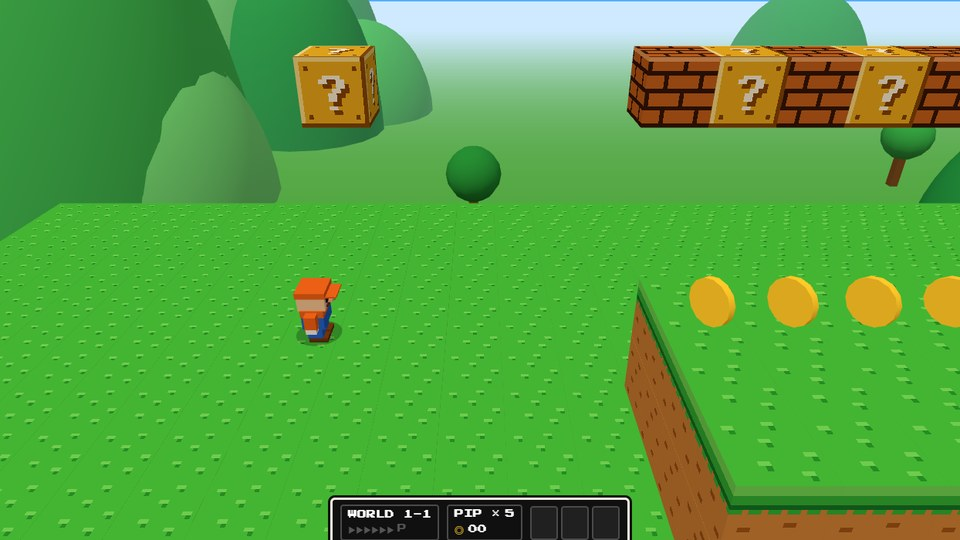
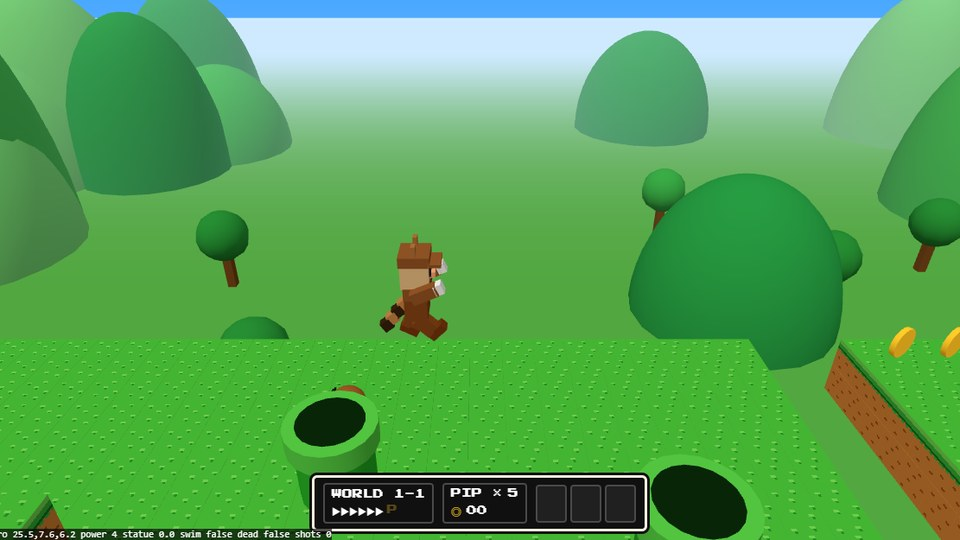
Leaf Leap 3D: tanooki and frog suits, water, airship

diff --git a/games.js b/games.js
@@ -20,9 +20,9 @@ window.GAMES = [
     players: '1',
     added: '2026-10-19',
     title:    { zh: '葉葉跳跳 3D', en: 'Leaf Leap 3D' },
-    tagline:  { zh: '在 3D 方塊世界裡奔跑跳躍：頂方塊、踩敵人、屁股蹬地，吃下神奇葉子在天上飛！', en: 'Run and jump through a blocky 3D world: bop blocks, stomp baddies, ground-pound, and fly with the Super Leaf!' },
-    about:    { zh: '致敬超級瑪利歐兄弟 3 與 3D Land 的 3D 平台遊戲。在世界地圖上沿著小路前進：六個關卡、蘑菇小屋、石頭堡壘和龜王城。關卡是 3D 方塊搭成的草原、梯田、天空浮島、水管森林、地底洞窟和岩漿大廳，可以前後左右自由跑跳，鏡頭可以轉動。蘑菇讓你變大、火焰花朝面對的方向丟彈跳火球、神奇葉子讓你長出尾巴：轉圈甩尾巴打敵人、在空中連按跳慢慢飄落，跑步集滿 P 計量表還能起飛；在空中按蹬地鍵可以屁股蹬地壓碎磚塊。踩扁蘑菇怪、把烏龜踩成龜殼往任何方向踢出去，最後踩三下打倒兩位首領。穿過終點線得到卡片，集三張換額外生命。簡單模式：五條命、每關都有中間點、沒有時間限制，關卡兩側有安全牆不會掉下去。',
-                en: 'A 3D platformer in tribute to Super Mario Bros. 3 and 3D Land. Walk the path on the world map: six levels, a Mushroom House, a Stone Fortress and the Turtle King\'s castle. The courses are built of 3D blocks (meadows, terraces, floating sky islands, a pipe grove, a cave and lava halls), and you can run in every direction while the camera turns. The Mushroom makes you big, the Fire Flower throws bouncing fireballs the way you face, and the Super Leaf gives you a tail: spin it at enemies, tap jump in the air to float down, and fill the P-meter by running to take off and fly. Pound the ground from the air to smash bricks. Stomp Mushlings, kick turtle shells in any direction, and beat two bosses with three stomps each. Cross the finish line for a card, and collect three for extra lives. Easy mode: five lives, a checkpoint in every level, no timer, and safe walls along the sides of every course.' },
+    tagline:  { zh: '3D 版的瑪利歐 3 冒險：狸貓裝飛天變石像、青蛙裝游泳、黑桃翻牌、蘑菇小屋和飛行船！', en: 'A 3D Mario 3 style adventure: fly and turn to stone in the Tanooki Suit, swim in the Frog Suit, play the spade cards, and storm the airship!' },
+    about:    { zh: '致敬超級瑪利歐兄弟 3 的 3D 平台遊戲。在世界地圖上沿著小路前進：七個關卡（包括海底關卡）、兩間蘑菇小屋、黑桃翻牌遊戲、石頭堡壘和飛行船。神奇葉子給你狸貓尾巴：轉圈甩尾、慢慢飄落、跑步集滿 P 計量表起飛；狸貓裝還能在地上按住蹬地鍵變成石像，什麼都傷不了你；青蛙裝在水裡游得最快、可以往任何方向游，在陸地上則一跳一跳地前進；P 翅膀讓你整關都能飛。蘑菇讓你變大、火焰花丟彈跳火球。踩扁蘑菇怪、踢龜殼、小心食人花和海裡的魚，在飛行船上躲開大砲（砲彈可以踩），最後打倒揮魔杖的小王子。穿過終點線得到卡片，集三張換額外生命。簡單模式：五條命、每關都有中間點、沒有時間限制。',
+                en: 'A 3D platformer in tribute to Super Mario Bros. 3. Walk the path on the world map: seven levels (one under the sea), two Mushroom Houses, a spade card game, a Stone Fortress and the airship. The Super Leaf gives you a raccoon tail: spin it, float down, and fill the P-meter by running to take off. The Tanooki Suit does all that and also turns you into a stone statue that nothing can hurt; the Frog Suit is the fastest swimmer, gliding in any direction, and hops along on land; the P-Wing lets you fly through a whole level. The Mushroom makes you big and the Fire Flower throws bouncing fireballs. Stomp Mushlings, kick shells, dodge biting plants and fish, brave the cannons on the airship (you can stomp the balls), and beat the little prince with his magic wand. Cross the finish line for a card and collect three for extra lives. Easy mode: five lives, a checkpoint in every level, and no timer.' },
     controls: { zh: '方向鍵／WASD 移動 · 空白鍵／Z 跳 · Shift／X 跑步＋丟火球＋甩尾巴 · 空中按 C 屁股蹬地 · Q／E 或拖曳 轉視角 · Esc 選單 · 控制器：左搖桿移動、右搖桿視角、A 跳、B 跑、Y 蹬地 · 手機：螢幕按鈕，拖曳轉視角', en: 'Arrows / WASD move · Space / Z jump · Shift / X run, throw fire, swing tail · C in the air: ground pound · Q / E or drag: camera · Esc menu · controller: left stick move, right stick camera, A jump, B run, Y pound · phone: on-screen buttons, drag to turn the camera' },
   },
   {

diff --git a/index.html b/index.html
@@ -77,7 +77,7 @@
     </form>
   </div>
 
-  <script src="games.js?v=48"></script>
+  <script src="games.js?v=49"></script>
   <script src="app.js?v=10"></script>
   <script type="module" src="account.js?v=2"></script>
 </body>
